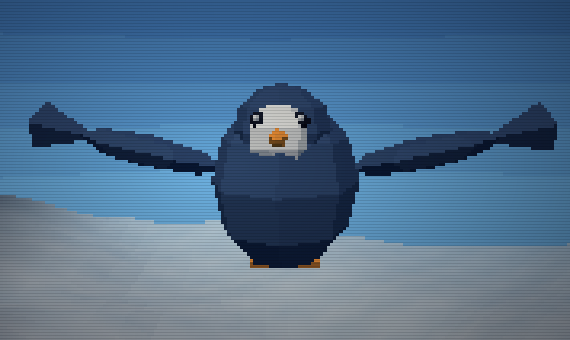
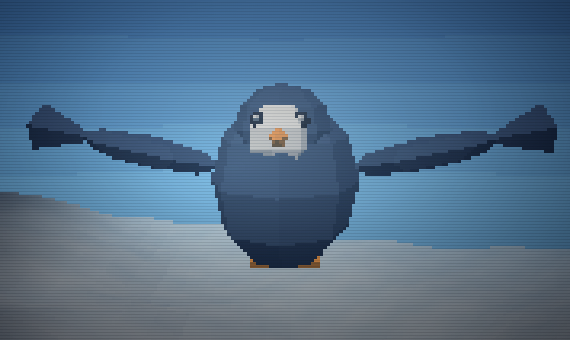
화면 중앙을 밝히고 비네팅을 강화
- 펭귄이 있는 화면 한가운데에 screen 블렌드 하이라이트를 넣었다.
  흰색을 그냥 덮으면 회색으로 뿌예지므로 밝기만 올리는 방식으로.
- 비네트를 20% 지점부터 서서히 시작해 모서리에서 0.92 까지 간다.
  타원 크기를 직접 지정했더니 모서리가 그라디언트 끝에 닿지 않아
  오히려 옅어져서, 기본 farthest-corner 로 되돌렸다.
- 타이틀 하단 링크가 브라우저 기본 스타일로 튀던 것 정리
- 스크린샷 13장 재생성

diff --git a/css/style.css b/css/style.css
@@ -32,9 +32,27 @@ button{font-family:var(--f-body)}
   mix-blend-mode:multiply;
   opacity:.55;
 }
-#stage::after{ /* 비네트 */
+/* ---- 중앙 하이라이트 : 펭귄이 있는 화면 한가운데를 띄운다 ----
+   단순히 흰색을 덮으면 회색으로 뿌예지므로 screen 블렌드로 밝기만 올린다. */
+#stage::before{
   content:"";position:absolute;inset:0;pointer-events:none;z-index:6;
-  background:radial-gradient(ellipse at center, transparent 55%, rgba(0,0,0,.55) 100%);
+  background:radial-gradient(ellipse 34% 40% at 50% 52%,
+    rgba(165,215,255,.30) 0%,
+    rgba(165,215,255,.13) 45%,
+    transparent 78%);
+  mix-blend-mode:screen;
+}
+
+/* ---- 비네트 : 바깥으로 갈수록 어둡게 ---- */
+#stage::after{
+  content:"";position:absolute;inset:0;pointer-events:none;z-index:6;
+  /* 기본 크기(farthest-corner)를 그대로 써야 100% 지점이 화면 모서리와 일치한다.
+     타원 크기를 직접 지정하면 모서리가 그라디언트 끝에 닿지 않아 오히려 옅어진다. */
+  background:radial-gradient(ellipse at 50% 50%,
+    transparent 20%,
+    rgba(0,0,0,.22) 48%,
+    rgba(0,0,0,.55) 74%,
+    rgba(0,0,0,.92) 100%);
 }
 
 /* ---- 충돌 플래시 ---- */
@@ -161,6 +179,8 @@ button.small{font-size:11px;padding:7px 12px;margin-top:14px}
 .press-start:hover{background:var(--gold);color:#05070f;animation:none}
 @keyframes blink{0%,49%{opacity:1}50%,100%{opacity:.35}}
 .foot{margin:20px 0 0;font-size:10px;color:#6d8db1}
+.foot a{color:var(--ice);text-decoration:none;border-bottom:1px dotted rgba(127,212,255,.45)}
+.foot a:hover{color:var(--gold);border-bottom-color:var(--gold)}
 .vignette-top{position:absolute;inset:0;pointer-events:none}
 
 /* ================= 프롤로그 ================= */
